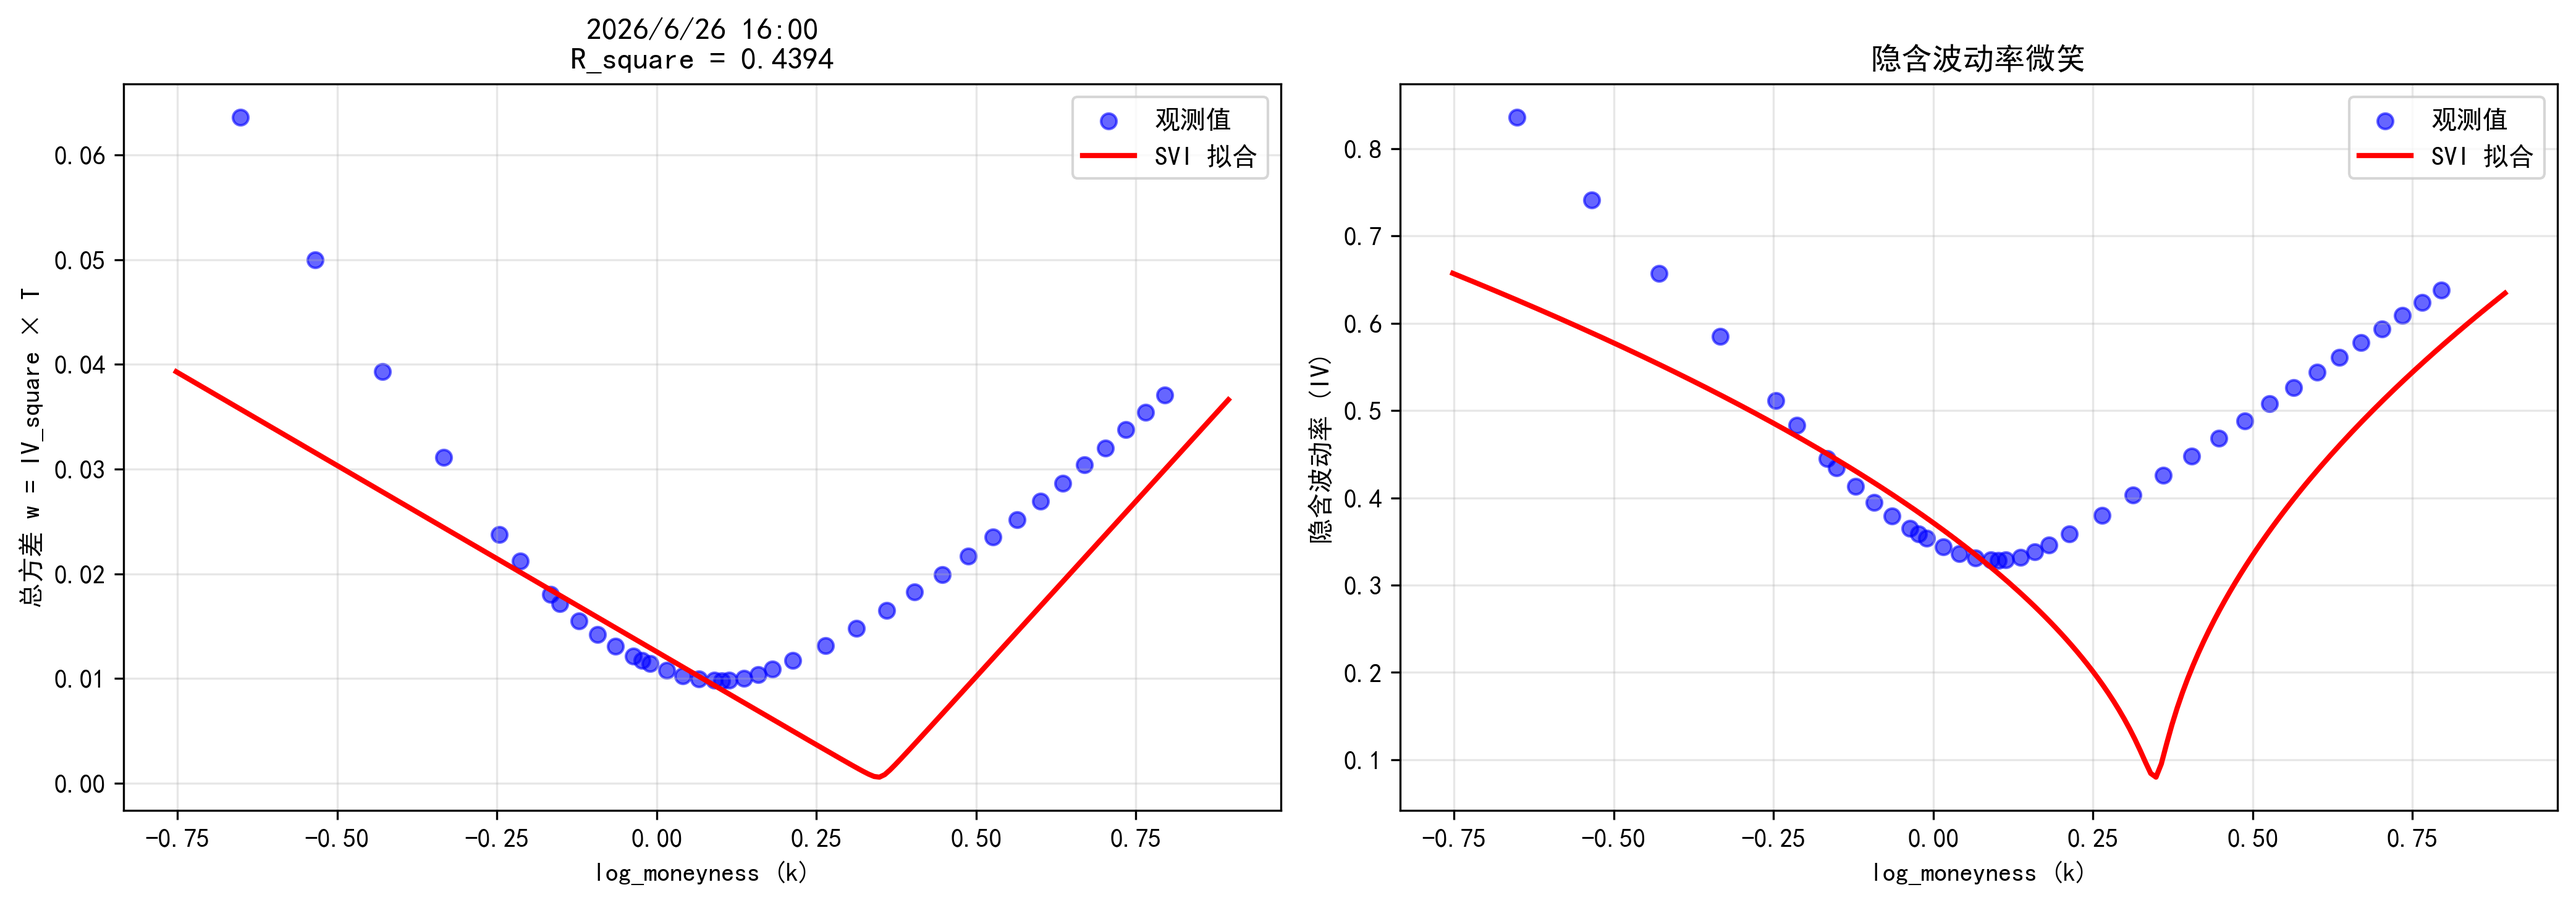
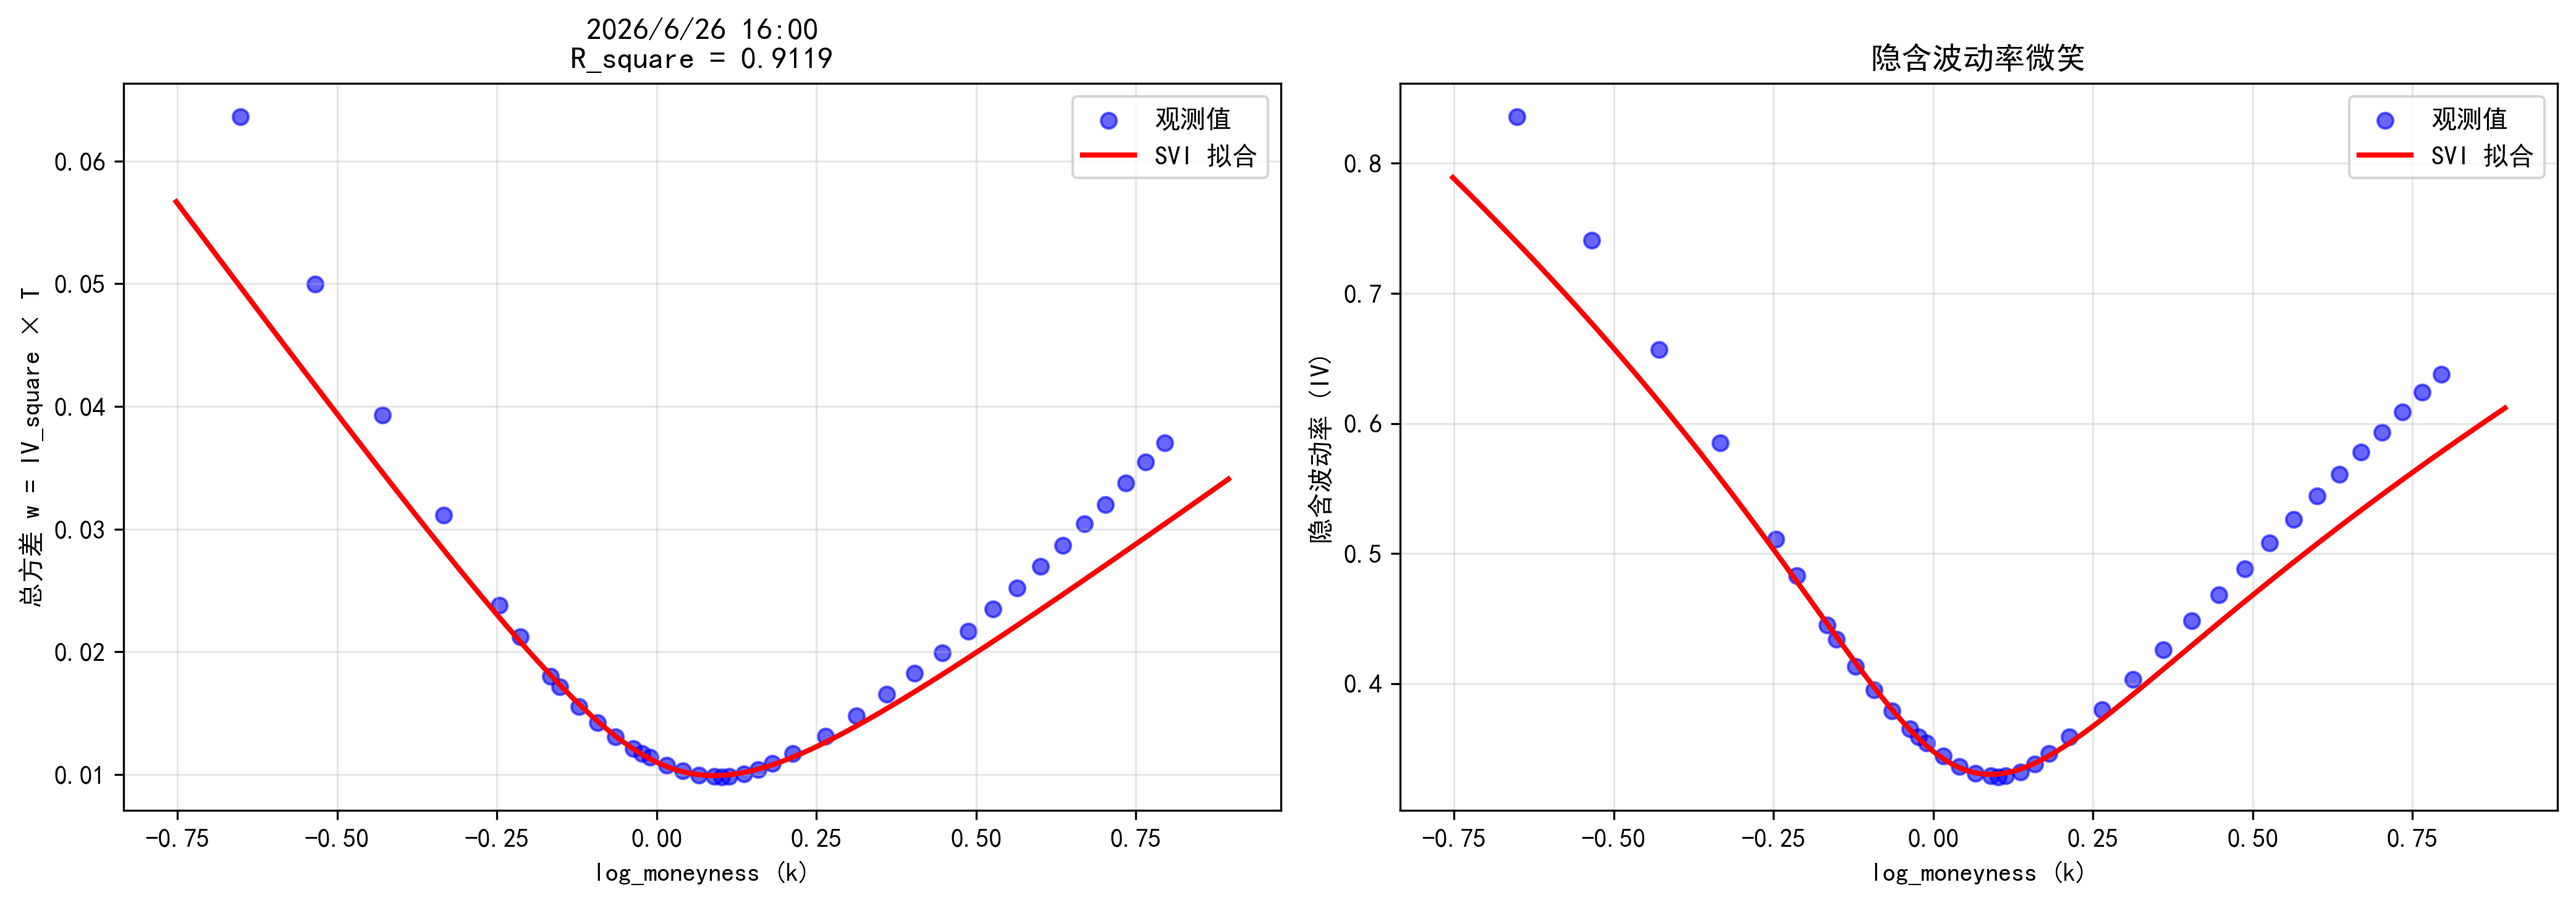
优化了一下损失函数，拟合的更好了

diff --git a/scripts/SVI.py b/scripts/SVI.py
@@ -34,11 +34,11 @@ expiry_example=df['expiry_date'].unique()[0]
 sample=grouped[grouped['expiry_date'] == expiry_example].sort_values('strike')
 print(sample.head(10))
 #------------------------定义svi函数--------------------------
-def svi_w(k,a,b,rho,sigma,m):
+def svi_w(k,a,b,rho,m,sigma):
     sqrt_term=np.sqrt((k-m)**2+sigma**2)
     return a+b*(rho*(k-m)+sqrt_term)
-def svi_iv(k,a,b,rho,sigma,m,T):
-    w=svi_w(k,a,b,rho,sigma,m)
+def svi_iv(k,a,b,rho,m,sigma,T):
+    w=svi_w(k,a,b,rho,m,sigma)
     w=np.maximum(w,0)
     return np.sqrt(w/T)
 test_k=np.array([-0.5,0,0.5])
@@ -47,7 +47,7 @@ print("测试 SVI 函数:")
 for k, w in zip(test_k, test_w):
     print(f"  k={k:.2f} -> w={w:.5f}")
 #-----------定义损失函数和权重-----------------
-def svi_loss(params, k_obs, w_obs, weights=None):
+def svi_loss(params, k_obs, w_obs, weights=None):#后续可以考虑加上正则化
     """SVI 拟合的损失函数"""
     a, b, rho, m, sigma = params
 
@@ -66,6 +66,7 @@ def svi_loss(params, k_obs, w_obs, weights=None):
         loss = np.mean((w_obs - w_pred) ** 2)
     else:
         loss = np.mean(weights * (w_obs - w_pred) ** 2)
+    loss=loss*1e6
 
     return loss + penalty
 def get_weights(k_obs):#这里的k_obs需要传入列表或者是数组
@@ -137,17 +138,17 @@ def fit_svi_for_expiry(df_grouped,expiry_date):
         args=(k_obs, w_obs, weights),
         method='L-BFGS-B',#内存占用小，支持边界约束,SVI就用这个方法就可以了
         bounds=[
-            (0.0001, 1.0),
+            (0.000001, 1.0),
             (0.01, 2.0),
             (-0.99, 0.99),
             (-1.0, 1.0),
             (0.01, 1.0)
         ],
-        options={'maxiter': 5000, 'disp': False}#最大迭代次数为500次，disp=False就是静默模式，安静的运行，不输出
+        options={'maxiter': 5000, 'disp': False}#最大迭代次数为5000次，disp=False就是静默模式，安静的运行，不输出
     )
     if result.success:
         a, b, rho, m, sigma = result.x
-        print(f"  拟合成功! 损失: {result.fun:.6f}")
+        print(f"  拟合成功! 损失: {result.fun:.2e}")
         print(f"  最终参数: a={a:.5f}, b={b:.5f}, rho={rho:.3f}, m={m:.5f}, sigma={sigma:.3f}")
 
         return {
